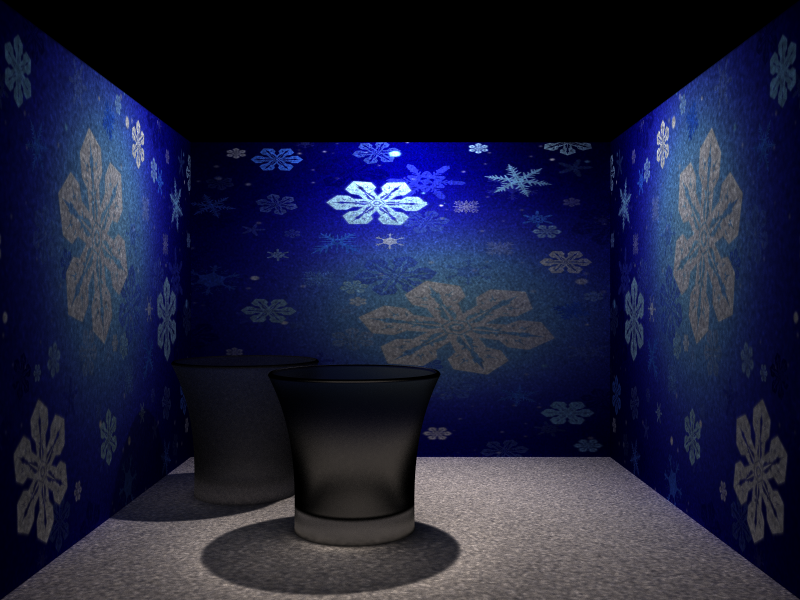
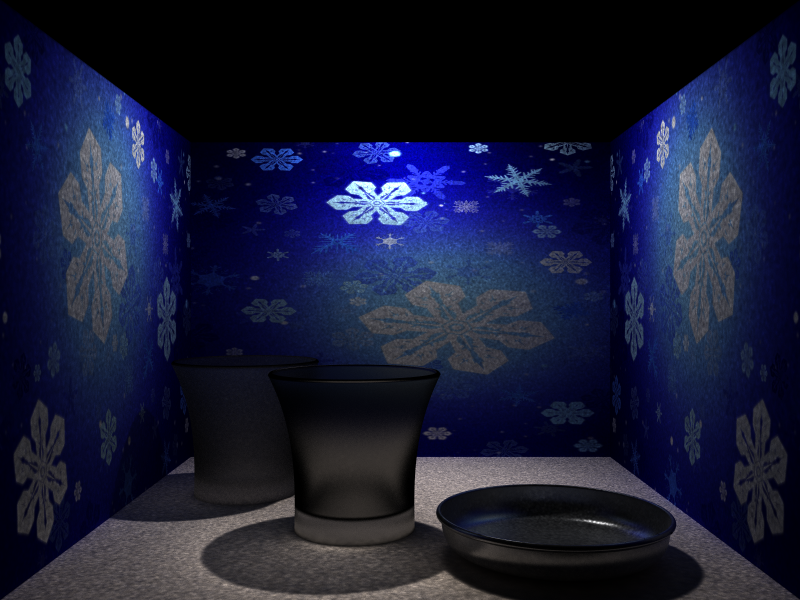
render the metal

Changed region(s): [[0.5312, 0.78, 0.875, 1.0]]

diff --git a/src/material.h b/src/material.h
@@ -42,7 +42,7 @@ struct Material
         case FROSTED_GLASS:
             return { 0.001, 0.02, 0.001, 0.96, 1.6, 15, color_t(1.0, 1.0, 1.0), color_t(1.0, 1.0, 1.0), NULL };
         case MATEL:
-            return { 0.00, 0.90, 0.00, 0.00, 1.0, 100, color_t(1.0, 1.0, 1.0), color_t(1.0, 1.0, 1.0), NULL };
+            return { 0.15, 0.80, 0.00, 0.00, 1.0, 100, color_t(1.0, 1.0, 1.0), color_t(1.0, 1.0, 1.0), NULL };
         default:
             assert(false);
         }
